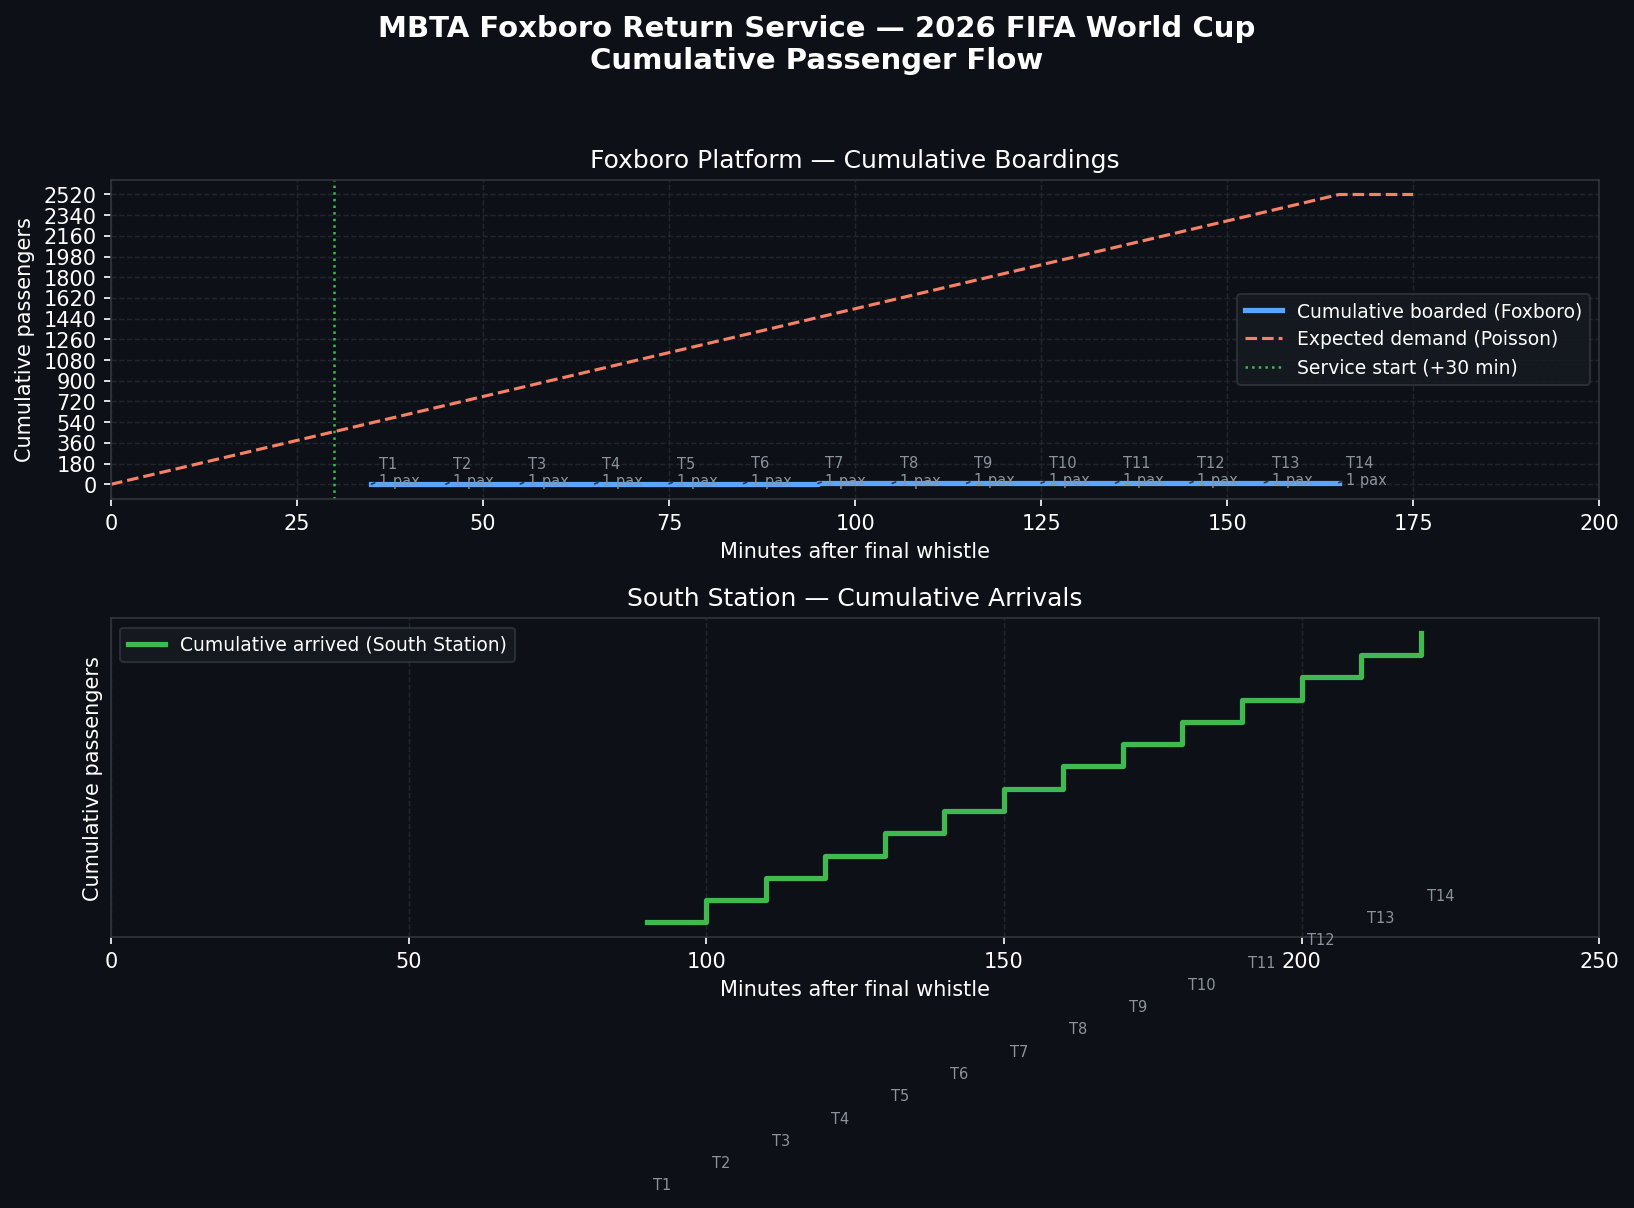
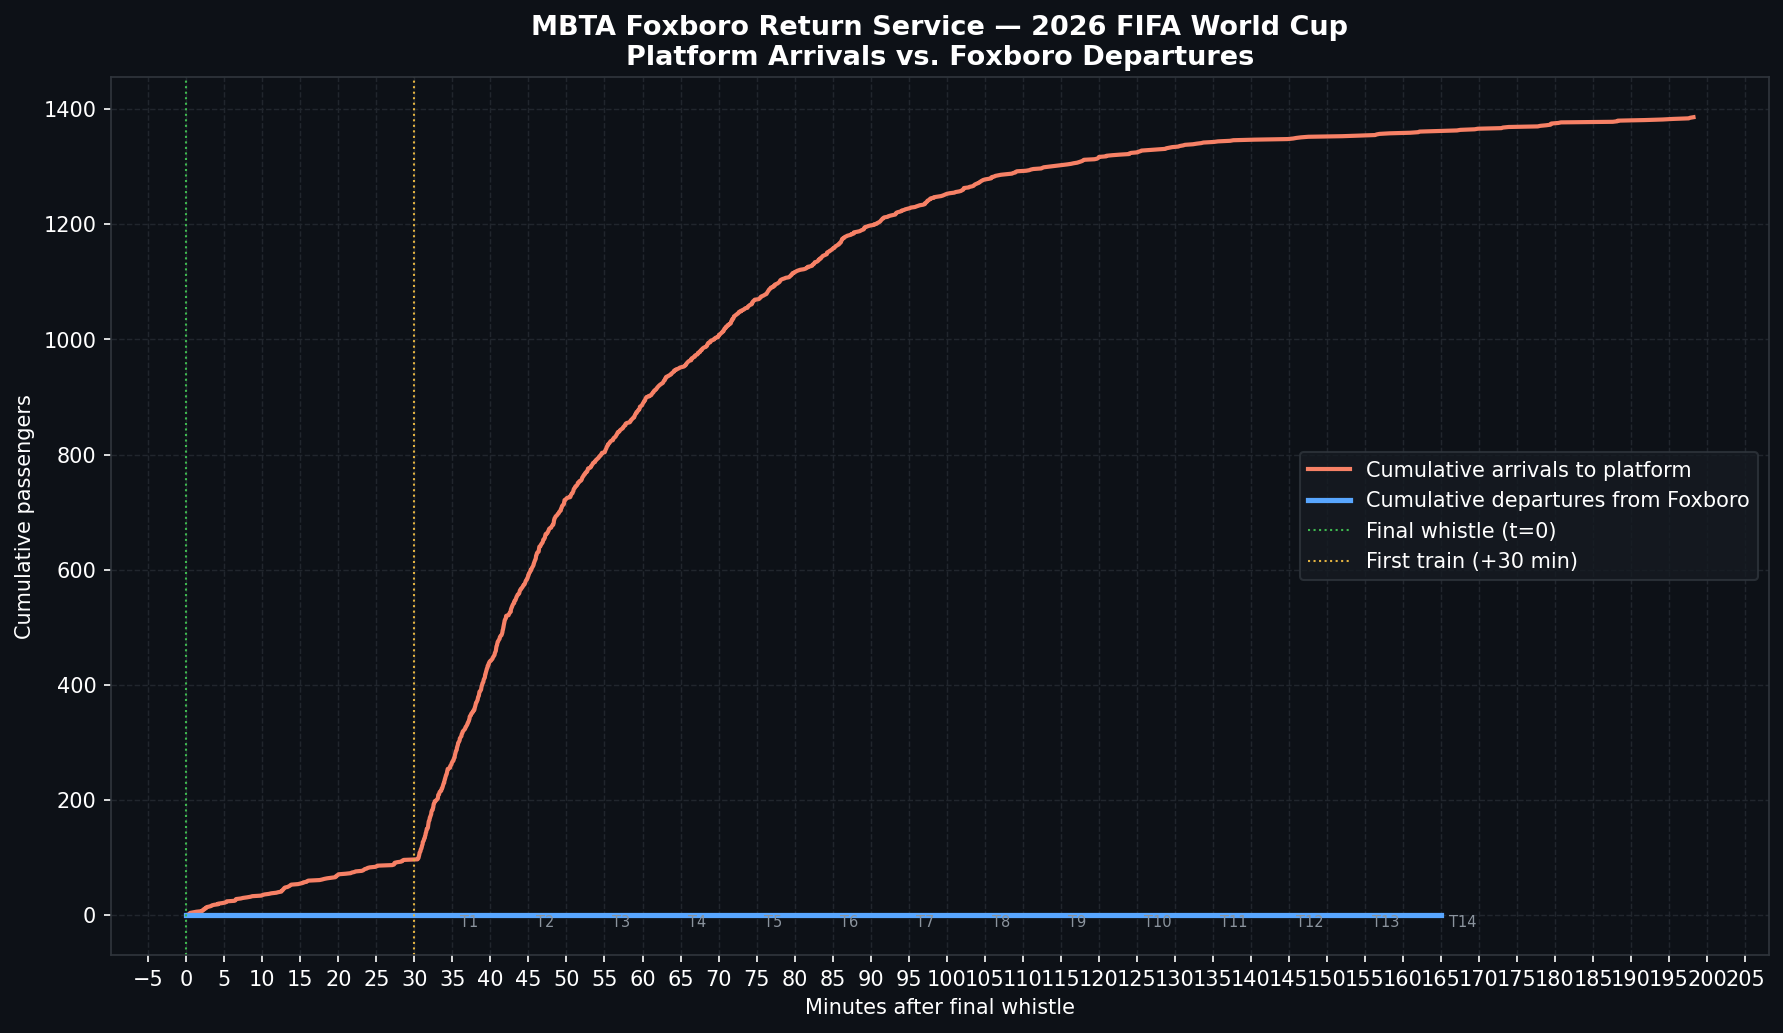
updated code

diff --git a/2foxbororeturn.py b/2foxbororeturn.py
@@ -59,7 +59,7 @@ def required_arrival_rate(num_trains: int,
                            service_start_min: int,
                            headway_min: float) -> Dict:
     """
-    Calculate the arrival rate λ needed to fill all num_trains trains.
+    Calculate the arrival rate λ needed to fill all trains.
 
     Total demand = num_trains × train_capacity passengers.
     These passengers must arrive before the last train departs.
@@ -99,14 +99,17 @@ def required_arrival_rate(num_trains: int,
 
 @dataclass
 class ReturnMetrics:
-    """Tracks per-train and per-passenger data for the return trip."""
     wait_times:           List[float] = field(default_factory=list)
     queue_at_departure:   List[int]   = field(default_factory=list)
     train_loads:          List[int]   = field(default_factory=list)
-    departure_times:      List[float] = field(default_factory=list)  # sim time of departure
-    arrival_times_ss:     List[float] = field(default_factory=list)  # sim time at South Station
+    departure_times:      List[float] = field(default_factory=list)
+    arrival_times_ss:     List[float] = field(default_factory=list)
+    platform_arrivals:    List[float] = field(default_factory=list)  # NEW: timestamp of each arrival
     passengers_boarded:   int         = 0
-    passengers_stranded:  int         = 0  # still in queue when last train departs
+    passengers_stranded:  int         = 0
+
+    def record_arrival(self, t: float):                              # NEW
+        self.platform_arrivals.append(t)
 
     def record_wait(self, wait: float):
         self.wait_times.append(wait)
@@ -132,9 +135,8 @@ class ReturnMetrics:
             "max_wait_min":              round(np.max(self.wait_times), 2),
             "first_departure_min":       round(self.departure_times[0], 1)  if self.departure_times else None,
             "last_departure_min":        round(self.departure_times[-1], 1) if self.departure_times else None,
-            "last_arrival_SS_min":       round(self.arrival_times_ss[-1], 1) if self.arrival_times_ss else None,
+            "last_train_arrives_SS_min": round(self.arrival_times_ss[-1], 1) if self.arrival_times_ss else None,
         }
-
 
 # ─────────────────────────────────────────────
 # SIMPY PROCESSES
@@ -146,18 +148,29 @@ def passenger_generator(env: simpy.Environment,
                          lam_per_min: float,
                          start_time: float = 0.0):
     """
-    Generate post-game passengers via Poisson process (FCFS — no priority).
-    Passengers begin arriving at the whistle (t=0), not at service start.
-    They queue and wait until a train is available.
+    Generates passengers with a time-varying rate to model the post-game surge:
+      - t=0 to t=30 (pre-service): slow trickle as fans exit the stadium
+      - t=30 (whistle + service start): large surge as crowd floods platform
+      - t=30 onward: rate decays exponentially as crowd thins out
     """
-    # Wait until the whistle before generating arrivals
     yield env.timeout(start_time)
 
     while True:
-        inter_arrival = random.expovariate(lam_per_min)
+        t = env.now
+
+        # Surge model: peak at service start, exponential decay afterward
+        # Before service: slow trickle at 20% of base rate
+        # After whistle: spike to 3x base rate, decaying with half-life of 20 min
+        if t < WHISTLE_TO_SERVICE:
+            effective_lam = lam_per_min * 0.20
+        else:
+            time_since_service = t - WHISTLE_TO_SERVICE
+            effective_lam = lam_per_min * 3.0 * math.exp(-0.035 * time_since_service)
+            effective_lam = max(effective_lam, lam_per_min * 0.05)  # floor: trickle never stops
+
+        inter_arrival = random.expovariate(effective_lam)
         yield env.timeout(inter_arrival)
         env.process(passenger_process(env, platform, metrics))
-
 
 def passenger_process(env: simpy.Environment,
                        platform: simpy.Resource,
@@ -166,6 +179,7 @@ def passenger_process(env: simpy.Environment,
     A single returning passenger: arrives, joins FCFS queue, boards next train.
     """
     arrive_time = env.now
+    metrics.record_arrival(arrive_time)   # NEW: log platform arrival timestamp
     with platform.request() as req:
         yield req
         wait = env.now - arrive_time
@@ -196,182 +210,99 @@ def train_dispatcher(env: simpy.Environment,
     yield env.timeout(DWELL_TIME_MIN + 1)
     metrics.passengers_stranded = len(platform.queue)
 
-
 def train_service(env: simpy.Environment,
                    platform: simpy.Resource,
                    metrics: ReturnMetrics,
                    name: str):
-    """
-    A single return train: dwells for DWELL_TIME_MIN, boards up to TRAIN_CAPACITY,
-    then departs for South Station.
-    """
     arrive = env.now
-    print(f"  [{arrive:6.1f} min] {name} ready for boarding | Queue: {len(platform.queue)}")
+    queue_before = len(platform.queue)
+    print(f"  [{arrive:6.1f} min] {name} ready for boarding | Queue: {queue_before}")
 
-    # Deterministic dwell
+    # Board passengers one by one up to train capacity during dwell
+    boarded = 0
+    boarding_events = []
+    while boarded < TRAIN_CAPACITY and len(platform.queue) > 0:
+        boarding_events.append(platform.queue[0].proc)
+        boarded += 1
+
     yield env.timeout(DWELL_TIME_MIN)
 
-    load = min(platform.capacity, TRAIN_CAPACITY)
+    load = min(queue_before, TRAIN_CAPACITY)
     queue_remaining = len(platform.queue)
     metrics.record_departure(env.now, load, queue_remaining)
 
-    print(f"  [{env.now:6.1f} min] {name} departs Foxboro → South Station "
-          f"| Boarded: {load} | Queue remaining: {queue_remaining} "
-          f"| Arrives SS at: {env.now + TRAVEL_TIME_MIN:.1f} min")
-
-
+    print(f"  [{env.now:6.1f} min] {name} departs | Boarded: {load} "
+          f"| Queue remaining: {queue_remaining} "
+          f"| Arrives SS: {env.now + TRAVEL_TIME_MIN:.1f} min")
 # ─────────────────────────────────────────────
 # CUMULATIVE DEPARTURE PLOT
 # ─────────────────────────────────────────────
-
 def plot_cumulative_departures(metrics: ReturnMetrics,
                                 lam_per_min: float,
                                 save_path: str = "return_departures.png"):
     """
-    Plot cumulative passengers departed from Foxboro and cumulative arrivals
-    at South Station over simulation time.
-
-    Also overlays the theoretical cumulative arrival curve so you can
-    see when demand meets capacity.
+    Two lines:
+      - Orange: cumulative passenger arrivals to Foxboro platform
+      - Blue:   cumulative passengers that actually board and depart
+    X-axis: minutes after final whistle
+    Y-axis: cumulative passengers
     """
-    dep_times  = np.array(metrics.departure_times)
-    arr_times  = np.array(metrics.arrival_times_ss)
-    loads      = np.array(metrics.train_loads)
+    # ── Arrival curve ─────────────────────────────────────────────
+    arrival_times_sorted = np.sort(metrics.platform_arrivals)
+    cum_arrivals = np.arange(1, len(arrival_times_sorted) + 1)
 
-    cum_departed  = np.cumsum(loads)
-    cum_arrived   = np.cumsum(loads)  # same passengers, just shifted by travel time
+    # ── Boarding staircase ────────────────────────────────────────
+    loads     = np.array(metrics.train_loads)
+    dep_times = np.array(metrics.departure_times)
+    cum_boarded = np.cumsum(loads)
 
-    # Theoretical cumulative arrivals at Foxboro station
-    t_range = np.linspace(0, dep_times[-1] + 10, 300)
-    cum_demand = lam_per_min * t_range  # E[arrivals] under Poisson
+    # Prepend zero so staircase starts at origin
+    dep_times_plot  = np.concatenate([[0], dep_times])
+    cum_boarded_plot = np.concatenate([[0], cum_boarded])
 
-    fig, axes = plt.subplots(2, 1, figsize=(11, 9), facecolor="#0d1117")
-    fig.suptitle("MBTA Foxboro Return Service — 2026 FIFA World Cup\nCumulative Passenger Flow",
-                 fontsize=14, color="white", fontweight="bold", y=0.98)
+    fig, ax = plt.subplots(figsize=(12, 7), facecolor="#0d1117")
+    ax.set_facecolor("#0d1117")
+    ax.tick_params(colors="white")
+    for spine in ax.spines.values():
+        spine.set_edgecolor("#30363d")
+    ax.grid(True, color="#21262d", linewidth=0.7, linestyle="--")
 
-    ax1, ax2 = axes
-    for ax in axes:
-        ax.set_facecolor("#0d1117")
-        ax.tick_params(colors="white")
-        ax.xaxis.label.set_color("white")
-        ax.yaxis.label.set_color("white")
-        ax.title.set_color("white")
-        for spine in ax.spines.values():
-            spine.set_edgecolor("#30363d")
-        ax.grid(True, color="#21262d", linewidth=0.7, linestyle="--")
+    # Orange: arrivals to platform
+    ax.plot(arrival_times_sorted, cum_arrivals,
+            color="#f78166", linewidth=2.0, label="Cumulative arrivals to platform")
 
-    # ── Panel 1: Departures from Foxboro ─────────────────────────
-    ax1.step(dep_times, cum_departed, where="post",
-             color="#58a6ff", linewidth=2.5, label="Cumulative boarded (Foxboro)")
-    ax1.plot(t_range, np.minimum(cum_demand, NUM_TRAINS * TRAIN_CAPACITY),
-             color="#f78166", linewidth=1.5, linestyle="--", label="Expected demand (Poisson)")
+    # Blue: passengers that board each train (staircase steps up by load per train)
+    ax.step(dep_times_plot, cum_boarded_plot, where="post",
+            color="#58a6ff", linewidth=2.5, label="Cumulative passengers boarded")
 
-    # Annotate each train departure
-    for i, (t, c) in enumerate(zip(dep_times, cum_departed)):
-        ax1.annotate(f"T{i+1}\n{loads[i]} pax",
-                     xy=(t, c), xytext=(t + 1, c - 15),
-                     fontsize=7, color="#8b949e",
-                     arrowprops=dict(arrowstyle="-", color="#30363d", lw=0.8))
+    # Annotate each step with train number and load
+    for i, (t, c, load) in enumerate(zip(dep_times, cum_boarded, loads)):
+        ax.annotate(f"T{i+1}: {load} pax",
+                    xy=(t, c), xytext=(t + 0.5, c + 15),
+                    fontsize=7, color="#8b949e",
+                    arrowprops=dict(arrowstyle="-", color="#30363d", lw=0.6))
 
-    ax1.axvline(WHISTLE_TO_SERVICE, color="#3fb950", linewidth=1.2,
-                linestyle=":", label=f"Service start (+{WHISTLE_TO_SERVICE} min)")
-    ax1.set_xlabel("Minutes after final whistle")
-    ax1.set_ylabel("Cumulative passengers")
-    ax1.set_title("Foxboro Platform — Cumulative Boardings")
-    ax1.legend(facecolor="#161b22", edgecolor="#30363d", labelcolor="white", fontsize=9)
-    ax1.yaxis.set_major_locator(mticker.MultipleLocator(TRAIN_CAPACITY))
+    # Vertical markers
+    ax.axvline(0, color="#3fb950", linewidth=1.0, linestyle=":",
+               label="Final whistle (t=0)")
+    ax.axvline(WHISTLE_TO_SERVICE, color="#e3b341", linewidth=1.0, linestyle=":",
+               label=f"First train (+{WHISTLE_TO_SERVICE} min)")
 
-    # ── Panel 2: Arrivals at South Station ───────────────────────
-    ax2.step(arr_times, cum_arrived, where="post",
-             color="#3fb950", linewidth=2.5, label="Cumulative arrived (South Station)")
+    ax.set_xlabel("Minutes after final whistle", color="white")
+    ax.set_ylabel("Cumulative passengers", color="white")
+    ax.set_title("MBTA Foxboro Return Service — 2026 FIFA World Cup\n"
+                 "Platform Arrivals vs. Passengers Boarded",
+                 color="white", fontsize=13, fontweight="bold")
+    ax.legend(facecolor="#161b22", edgecolor="#30363d", labelcolor="white", fontsize=10)
+    ax.tick_params(colors="white")
+    ax.xaxis.set_major_locator(mticker.MultipleLocator(5))
 
-    for i, (t, c) in enumerate(zip(arr_times, cum_arrived)):
-        ax2.annotate(f"T{i+1}",
-                     xy=(t, c), xytext=(t + 1, c - 12),
-                     fontsize=7, color="#8b949e")
-
-    ax2.set_xlabel("Minutes after final whistle")
-    ax2.set_ylabel("Cumulative passengers")
-    ax2.set_title("South Station — Cumulative Arrivals")
-    ax2.legend(facecolor="#161b22", edgecolor="#30363d", labelcolor="white", fontsize=9)
-    ax2.yaxis.set_major_locator(mticker.MultipleLocator(TRAIN_CAPACITY))
-
-    # ── Shared x-axis labels for key events ──────────────────────
-    for ax in axes:
-        ax.set_xlim(left=0)
-        xticks = list(ax.get_xticks())
-        ax.set_xticks(sorted(set(xticks)))
-
-    plt.tight_layout(rect=[0, 0, 1, 0.96])
+    plt.tight_layout()
     plt.savefig(save_path, dpi=150, bbox_inches="tight", facecolor="#0d1117")
     print(f"\n  Plot saved → {save_path}")
-    plt.show()
-
-
-# ─────────────────────────────────────────────
-# MAIN
-# ─────────────────────────────────────────────
-
-if __name__ == "__main__":
-
-    random.seed(RANDOM_SEED)
-    np.random.seed(RANDOM_SEED)
-
-    print("\n" + "="*65)
-    print("  MBTA FOXBORO RETURN SERVICE — POST-GAME SIMULATION")
-    print("="*65)
-
-    # ── Step 1: Required arrival rate ────────────────────────────
-    print("\n── SECTION 1: REQUIRED ARRIVAL RATE TO FILL ALL 14 TRAINS ──")
-    rate_info = required_arrival_rate(
-        num_trains     = NUM_TRAINS,
-        train_capacity = TRAIN_CAPACITY,
-        service_start_min = WHISTLE_TO_SERVICE,
-        headway_min    = HEADWAY_MIN,
-    )
-    print(f"\n  Total passengers needed:       {rate_info['total_passengers_needed']:,}")
-    print(f"  Arrival window:                {rate_info['arrival_window_min']} min")
-    print(f"  Required λ:                    {rate_info['required_lam_per_min']} pax/min")
-    print(f"                                 ({rate_info['required_lam_per_hour']} pax/hr)")
-    print(f"  First train departs at:        +{rate_info['first_train_departs_min']} min")
-    print(f"  Last train departs Foxboro:    +{rate_info['last_train_departs_min']} min")
-    print(f"  Last train arrives S. Station: +{rate_info['last_train_arrival_SS_min']} min")
-    print(f"  Total elapsed time:            {rate_info['total_elapsed_min']} min "
-          f"({rate_info['total_elapsed_min']/60:.1f} hrs after whistle)")
-
-    # ── Step 2: SimPy Simulation ──────────────────────────────────
-    print("\n── SECTION 2: SIMPY RETURN SIMULATION ──────────────────────")
-    lam = rate_info["required_lam_per_min"]
-
-    env      = simpy.Environment()
-    metrics  = ReturnMetrics()
-    platform = simpy.Resource(env, capacity=NUM_PLATFORMS)
-
-    # Passengers start arriving at t=0 (the whistle)
-    # Trains start at t=WHISTLE_TO_SERVICE
-    env.process(passenger_generator(env, platform, metrics,
-                                     lam_per_min=lam,
-                                     start_time=0.0))
-    env.process(train_dispatcher(env, platform, metrics,
-                                  service_start=WHISTLE_TO_SERVICE,
-                                  headway_min=HEADWAY_MIN,
-                                  num_trains=NUM_TRAINS))
-
-    print(f"\n  λ = {lam} pax/min | Headway = {HEADWAY_MIN} min | "
-          f"Trains = {NUM_TRAINS} | Platform = {NUM_PLATFORMS}\n")
-    env.run(until=SIM_DURATION_MIN)
-
-    # ── Step 3: Results summary ───────────────────────────────────
-    print("\n── SECTION 3: SIMULATION RESULTS ───────────────────────────")
-    summary = metrics.summary()
-    for k, v in summary.items():
-        print(f"  {k:<35} {v}")
-
-    # ── Step 4: Cumulative plot ───────────────────────────────────
-    print("\n── SECTION 4: GENERATING CUMULATIVE DEPARTURE PLOT ─────────")
-    plot_cumulative_departures(metrics, lam_per_min=lam,
-                                save_path="return_departures.png")
-
-    print("\n" + "="*65)
-    print("  Return simulation complete.")
-    print("="*65 + "\n")
+    import os
+plt.savefig(save_path, dpi=150, bbox_inches="tight", facecolor="#0d1117")
+print(f"  File exists after save: {os.path.exists(save_path)}")
+print(f"  File size: {os.path.getsize(save_path)} bytes")
+print(f"  Saved to: {os.path.abspath(save_path)}")
+plt.show()
